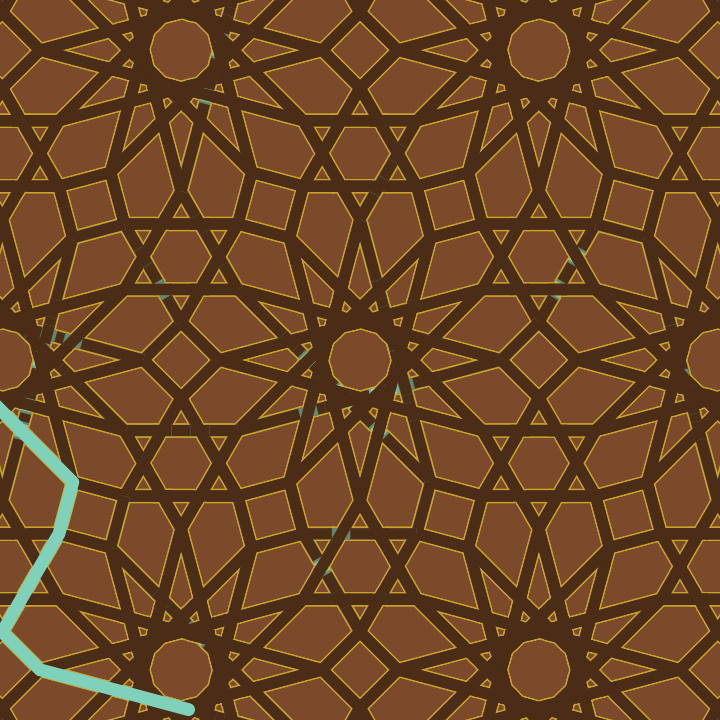
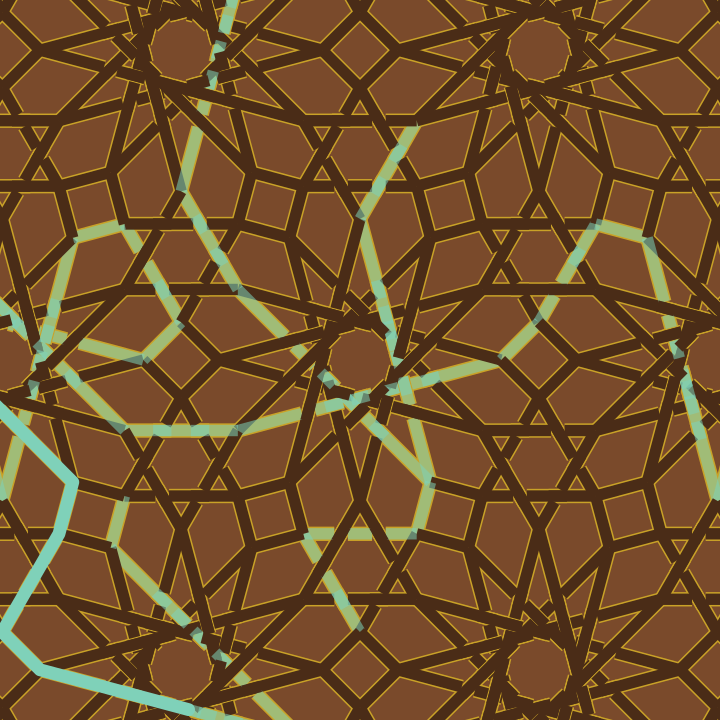
№160/161: final gated builds (fly; supersedes mid-build copies from the parallel scheduled run)

diff --git a/161/index.html b/161/index.html
@@ -78,13 +78,15 @@ function build() {
   var i, j, x, y;
   if (FAMILY === 0) {            // 4.8.8: octagons + squares
     var S = M * 0.235, Ro = S * 0.541, Rs = S * 0.207;
-    for (i = -3; i <= 3; i++) for (j = -3; j <= 3; j++) {
+    var ni0 = Math.ceil(W / (2 * S)) + 1, nj0 = Math.ceil(H / (2 * S)) + 1;
+    for (i = -ni0; i <= ni0; i++) for (j = -nj0; j <= nj0; j++) {
       tiles.push({ x: cx0 + i * S, y: cy0 + j * S, sides: 8, R: Ro, rot: Math.PI / 8, seed: tiles.length });
       tiles.push({ x: cx0 + (i + 0.5) * S, y: cy0 + (j + 0.5) * S, sides: 4, R: Rs, rot: 0, seed: tiles.length });
     }
   } else if (FAMILY === 1) {     // 3.6.3.6: hexagons + triangles
     var S2 = M * 0.19, Rh = S2 * 0.577, Rt = S2 * 0.30;
-    for (i = -4; i <= 4; i++) for (j = -4; j <= 4; j++) {
+    var ni1 = Math.ceil(W / (2 * S2)) + 1, nj1 = Math.ceil(H / (2 * S2 * 0.866)) + 1;
+    for (i = -ni1; i <= ni1; i++) for (j = -nj1; j <= nj1; j++) {
       x = cx0 + i * S2 + (j % 2 ? S2 / 2 : 0); y = cy0 + j * S2 * 0.866;
       tiles.push({ x: x, y: y, sides: 6, R: Rh, rot: 0, seed: tiles.length });
       tiles.push({ x: x + S2 / 2, y: y + S2 * 0.29, sides: 3, R: Rt, rot: Math.PI / 2, seed: tiles.length });
@@ -92,7 +94,8 @@ function build() {
     }
   } else if (FAMILY === 2) {     // 3.4.6.4: hexagons + squares + triangles
     var S3 = M * 0.21, Rh3 = S3 * 0.5, Rs3 = S3 * 0.26, Rt3 = S3 * 0.24;
-    for (i = -4; i <= 4; i++) for (j = -4; j <= 4; j++) {
+    var ni2 = Math.ceil(W / (2 * S3)) + 1, nj2 = Math.ceil(H / (2 * S3 * 0.866)) + 1;
+    for (i = -ni2; i <= ni2; i++) for (j = -nj2; j <= nj2; j++) {
       x = cx0 + i * S3 + (j % 2 ? S3 / 2 : 0); y = cy0 + j * S3 * 0.866;
       tiles.push({ x: x, y: y, sides: 6, R: Rh3, rot: Math.PI / 6, seed: tiles.length });
       tiles.push({ x: x + S3 * 0.52, y: y, sides: 4, R: Rs3, rot: Math.PI / 4, seed: tiles.length });
@@ -100,7 +103,8 @@ function build() {
     }
   } else {                       // decagon / pentagon / hexagon mix
     var S4 = M * 0.27, Rd = S4 * 0.52, Rp = S4 * 0.30, Rh4 = S4 * 0.30;
-    for (i = -3; i <= 3; i++) for (j = -3; j <= 3; j++) {
+    var ni3 = Math.ceil(W / (2 * S4)) + 1, nj3 = Math.ceil(H / (2 * S4 * 0.92)) + 1;
+    for (i = -ni3; i <= ni3; i++) for (j = -nj3; j <= nj3; j++) {
       x = cx0 + i * S4 + (j % 2 ? S4 / 2 : 0); y = cy0 + j * S4 * 0.92;
       tiles.push({ x: x, y: y, sides: 10, R: Rd, rot: Math.PI / 10, seed: tiles.length });
       tiles.push({ x: x + S4 * 0.5, y: y + S4 * 0.46, sides: 5, R: Rp, rot: -Math.PI / 2, seed: tiles.length });

diff --git a/160/index.html b/160/index.html
@@ -115,7 +115,12 @@ function build() {
   var polys = world.map(function (p) {
     return { pts: polyPts(cx + p.x * aPx, cy + p.y * aPx, p.n, ROf(p.n) * aPx, p.rot), n: p.n };
   });
-  // median rays from every edge midpoint, clipped to their polygon
+  // median rays from every edge midpoint, clipped to their polygon.
+  // Every chord is discovered twice, once from each of its endpoint
+  // midpoints, so chords are deduplicated on their endpoints: the
+  // route may pick either copy, and a surviving twin would repaint
+  // it in shadow.
+  var chordSeen = {};
   polys.forEach(function (p, pi) {
     var beta = (90 - 180 / p.n) * Math.PI / 180;
     p.pts.forEach(function (A, k) {
@@ -131,9 +136,15 @@ function build() {
         var dx = Math.cos(beta) * sgn * tx + Math.sin(beta) * nx;
         var dy = Math.cos(beta) * sgn * ty + Math.sin(beta) * ny;
         var u = rayHit(mx, my, dx, dy, p.pts);
-        if (isFinite(u))
-          segs.push({ x1: mx, y1: my, x2: mx + dx * u, y2: my + dy * u,
-                      poly: pi, path: false, cross: [] });
+        if (!isFinite(u)) return;
+        var ex = mx + dx * u, ey = my + dy * u;
+        var k1 = Math.round(mx * 2) + ',' + Math.round(my * 2);
+        var k2 = Math.round(ex * 2) + ',' + Math.round(ey * 2);
+        var ck = k1 < k2 ? k1 + '|' + k2 : k2 + '|' + k1;
+        if (chordSeen[ck]) return;
+        chordSeen[ck] = true;
+        segs.push({ x1: mx, y1: my, x2: ex, y2: ey,
+                    poly: pi, path: false, cross: [] });
       });
     });
   });

diff --git a/161/process.md b/161/process.md
@@ -31,11 +31,18 @@ requestAnimationFrame.
 
 ## QA log
 Rendered with render-piece.js at 1280x900, 390x844 and 720x720
-and inspected all three. One fault was caught and fixed during
-QA: the 4-point star parameter for the smallest tiles drove the
-inner radius to zero and the square motifs collapsed into thin
-crosses; the step parameter is now chosen per tile size and the
-squares carry small diamond motifs. Frame one: the 4.8.8 wall
+and inspected all three, plus forced renders of families 2, 3
+and 4 (the tap cycle cannot be driven headlessly, so the family
+index was set directly in test copies; all four families produce
+coherent full tapestries in palette). Two faults were caught and
+fixed during QA. The 4-point star parameter for the smallest
+tiles drove the inner radius to zero and the square motifs
+collapsed into thin crosses; the step parameter is now chosen
+per tile size and the squares carry small diamond motifs. And
+the lattice ranges were fixed counts sized from the smaller
+frame dimension, which left plaster bands at the top and bottom
+of the tall phone frame; ranges are now computed from the width
+and height separately, and the phone render fills edge to edge. Frame one: the 4.8.8 wall
 fills the frame, eight-point stars in the octagons, diamonds in
 the squares, red links stitching every shared boundary. Palette
 audit: plaster #EFE9DA, pencil tiling #B9B2A0, motifs #1A1A1A,
